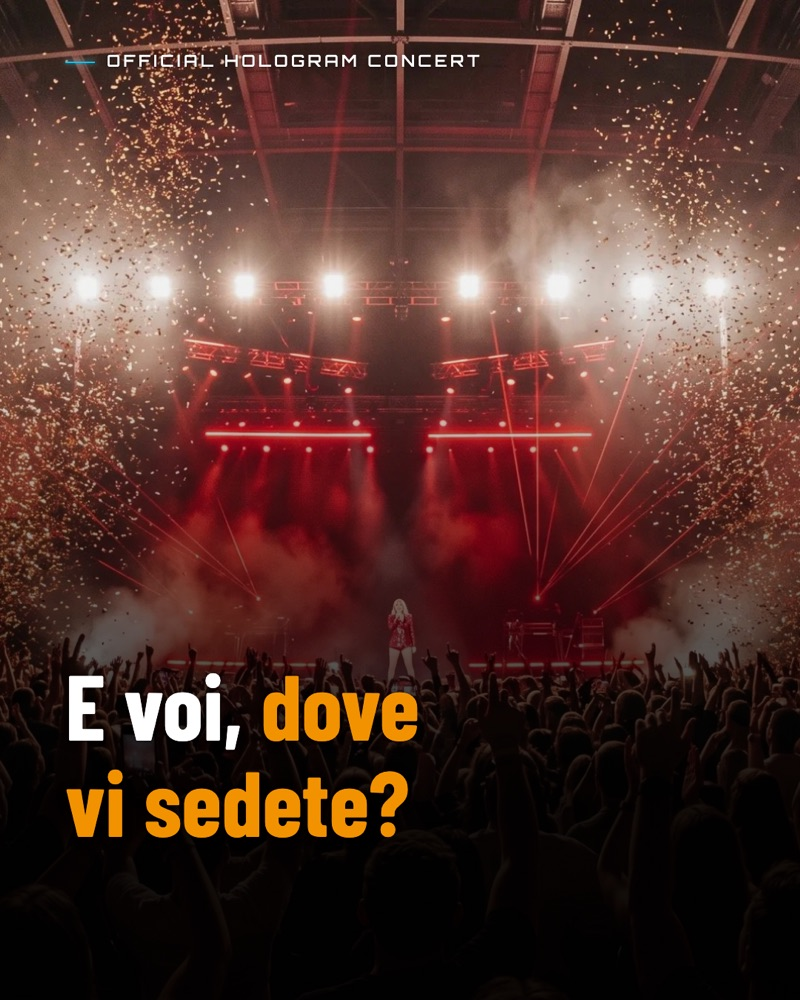
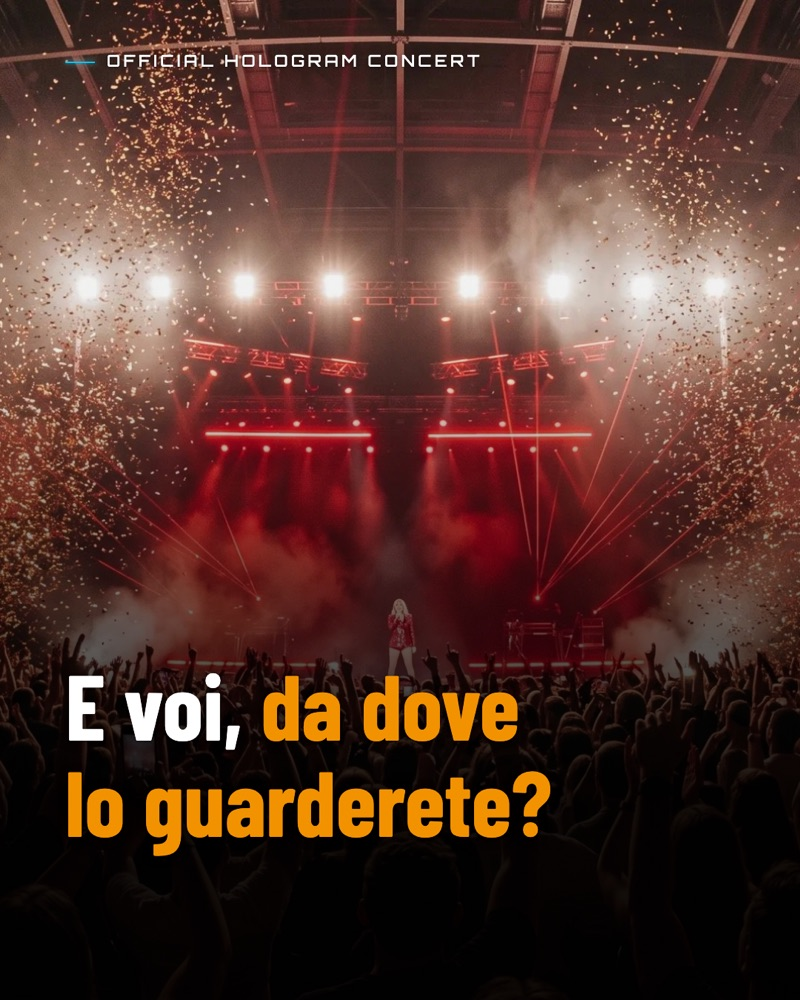
Tolto il 2/11, 6/11 da dove lo guarderete

Changed region(s): [[0.1875, 0.775, 0.6875, 0.868], [0.375, 0.651, 0.6562, 0.744], [0.0625, 0.775, 0.1562, 0.837]]

diff --git a/index.html b/index.html
@@ -21,7 +21,7 @@ h3{margin:2px 0 4px;font-size:20px;text-wrap:balance}.ch{margin:0 0 10px;color:v
 @media(max-width:700px){.u{grid-template-columns:1fr}.when{display:flex;gap:10px;align-items:baseline}video.v{max-width:260px}}
 </style>
 <div class="wrap"><h1>Raffaella Carrà · <em>PED v5</em></h1>
-<p class="sub">Calendario dal 1 novembre al 28 dicembre: 41 post e 17 video. Gli short partono muti, la musica si aggiunge nell'app. Tutto si guarda qui: i video si avviano col tasto play, i caroselli scorrono di lato.</p>
+<p class="sub">Calendario dal 1 novembre al 28 dicembre: 40 post e 17 video. Gli short partono muti, la musica si aggiunge nell'app. Tutto si guarda qui: i video si avviano col tasto play, i caroselli scorrono di lato.</p>
 <h2 class="mese">Novembre</h2><article class="u "><div class="when"><b>1 nov</b><span>dom · 12:00</span></div>
 <div class="media"><div class="slides"><img src="m/2026-11-01_come-si-prende-il-biglietto-s1.jpg" alt="Come si prende il biglietto slide 1" loading="lazy"><img src="m/2026-11-01_come-si-prende-il-biglietto-s2.jpg" alt="Come si prende il biglietto slide 2" loading="lazy"><img src="m/2026-11-01_come-si-prende-il-biglietto-s3.jpg" alt="Come si prende il biglietto slide 3" loading="lazy"><img src="m/2026-11-01_come-si-prende-il-biglietto-s4.jpg" alt="Come si prende il biglietto slide 4" loading="lazy"></div></div><div class="txt"><p class="k">Carosello</p><h3>Come si prende il biglietto</h3><p class="ch">IG feed · Facebook · Storia</p><p class="cap">Allora, vi aspettiamo? Dance Floor, Gold o Platinum: 49, 59 e 69 euro, massimo 4 biglietti a testa.
 Lunedì 28 dicembre, ore 21, Atlantico di Roma.
@@ -33,8 +33,7 @@ Biglietti su Vivaticket, link nella bio.
 Lo staff di Raffaella Carrà Ufficiale</p><p class="tag">#raffaellacarrà #OfficialHologramConcert</p></div></article><article class="u is-v"><div class="when"><b>1 nov</b><span>dom · 18:00</span></div>
 <div class="media"><video class="o" src="m/T02.mp4" controls playsinline muted preload="metadata"></video></div><div class="txt"><p class="k">Teaser</p><h3>Teaser ufficiale</h3><p class="ch">IG feed · Facebook</p><p class="cap">Raffaella torna sul palco. In ologramma, com&#x27;era nel 1984. Corpo di ballo dal vivo, i suoi costumi rifatti uno per uno, laser e luci di Laserman e le canzoni di sempre. Lunedì 28 dicembre, ore 21, Atlantico Live di Roma.
 Biglietti su Vivaticket, link nella bio.
-Lo staff di Raffaella Carrà Ufficiale</p><p class="tag">#raffaellacarrà #OfficialHologramConcert</p></div></article><article class="u "><div class="when"><b>2 nov</b><span>lun · 11:00</span></div>
-<div class="media"><div class="slides"><img src="m/2026-11-02_le-vostre-domande-s1.jpg" alt="Le vostre domande slide 1" loading="lazy"></div></div><div class="txt"><p class="k">Post</p><h3>Le vostre domande</h3><p class="ch"> · Storia</p><p class="cap">Storia: stessa grafica + sticker link Vivaticket (vedi note di produzione del post v3)</p><p class="tag"></p></div></article><article class="u "><div class="when"><b>3 nov</b><span>mar · 18:00</span></div>
+Lo staff di Raffaella Carrà Ufficiale</p><p class="tag">#raffaellacarrà #OfficialHologramConcert</p></div></article><article class="u "><div class="when"><b>3 nov</b><span>mar · 18:00</span></div>
 <div class="media"><div class="slides"><img src="m/2026-11-03_tre-domande-tre-risposte-s1.jpg" alt="Tre domande, tre risposte slide 1" loading="lazy"><img src="m/2026-11-03_tre-domande-tre-risposte-s2.jpg" alt="Tre domande, tre risposte slide 2" loading="lazy"><img src="m/2026-11-03_tre-domande-tre-risposte-s3.jpg" alt="Tre domande, tre risposte slide 3" loading="lazy"><img src="m/2026-11-03_tre-domande-tre-risposte-s4.jpg" alt="Tre domande, tre risposte slide 4" loading="lazy"><img src="m/2026-11-03_tre-domande-tre-risposte-s5.jpg" alt="Tre domande, tre risposte slide 5" loading="lazy"></div></div><div class="txt"><p class="k">Carosello</p><h3>Tre domande, tre risposte</h3><p class="ch">IG feed · Facebook · Storia</p><p class="cap">Quando, quanto, dove: le tre domande che ci fate di più, tutte qui.
 I biglietti sono solo su Vivaticket, link nella bio: diffidate di altri canali.
 Altre domande? Nei commenti, rispondiamo a tutti.
@@ -46,7 +45,7 @@ Lo staff di Raffaella Carrà Ufficiale</p><p class="tag">#raffaellacarrà #Offic
 Lunedì 28 dicembre, ore 21, Atlantico di Roma.
 Biglietti su Vivaticket, link nella bio.
 Lo staff di Raffaella Carrà Ufficiale</p><p class="tag">#raffaellacarrà #OfficialHologramConcert</p></div></article><article class="u "><div class="when"><b>6 nov</b><span>ven · 18:00</span></div>
-<div class="media"><div class="slides"><img src="m/2026-11-06_dove-vi-sedete-s1.jpg" alt="Dove vi sedete? slide 1" loading="lazy"></div></div><div class="txt"><p class="k">Post</p><h3>Dove vi sedete?</h3><p class="ch">IG feed · Facebook · Storia</p><p class="warn">Da confermare: Andrea: descrizione dei settori</p><p class="cap">Dance Floor sotto il palco, Gold al centro, Platinum nelle prime file. E voi, dove vi sedete? Ditecelo nei commenti.
+<div class="media"><div class="slides"><img src="m/2026-11-06_dove-vi-sedete-s1.jpg" alt="Dove vi sedete? slide 1" loading="lazy"></div></div><div class="txt"><p class="k">Post</p><h3>Da dove lo guarderete?</h3><p class="ch">IG feed · Facebook · Storia</p><p class="warn">Da confermare: Andrea: descrizione dei settori</p><p class="cap">Dance Floor sotto il palco, Gold al centro, Platinum nelle prime file. E voi, da dove lo guarderete? Ditecelo nei commenti.
 49, 59 e 69 euro. 28 dicembre, ore 21, Atlantico di Roma.
 Biglietti su Vivaticket, link nella bio.
 Lo staff di Raffaella Carrà Ufficiale</p><p class="tag">#raffaellacarrà #OfficialHologramConcert</p></div></article><article class="u is-v"><div class="when"><b>6 nov</b><span>ven · 18:30</span></div>
